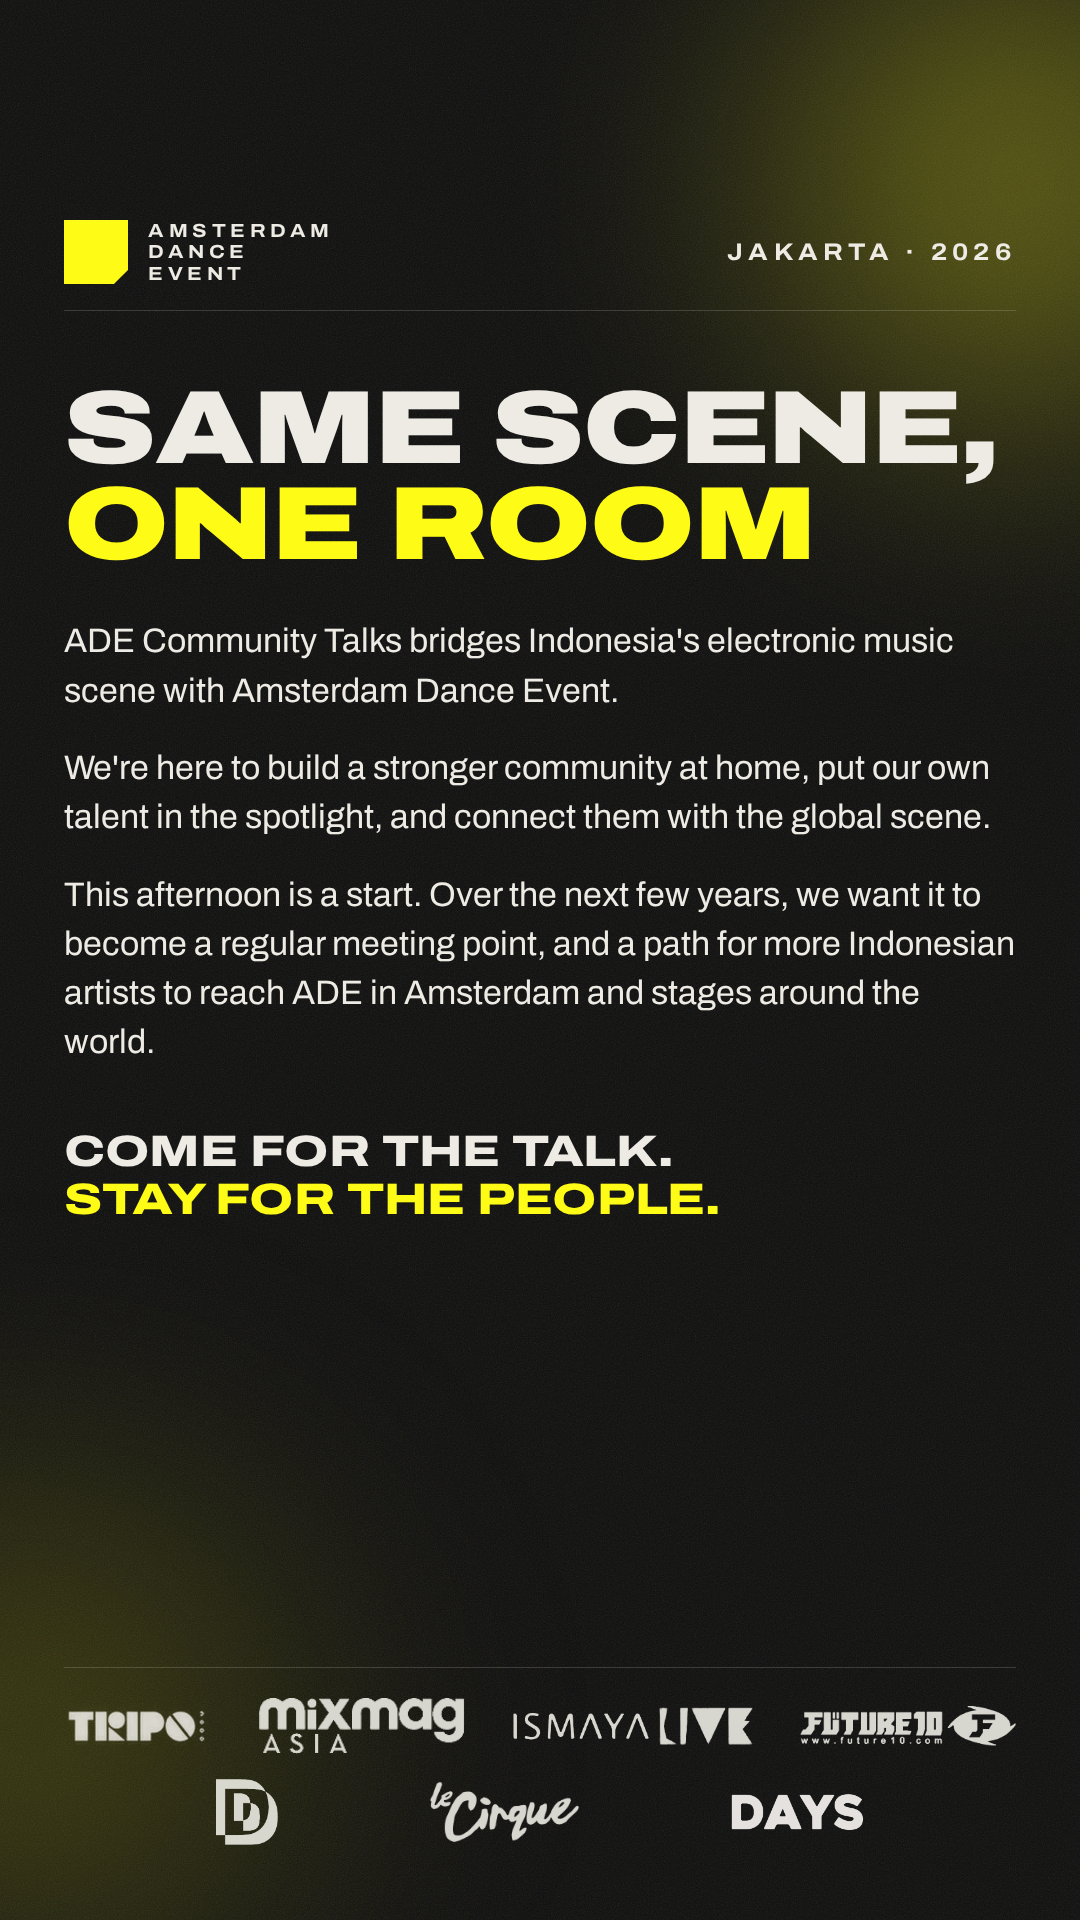
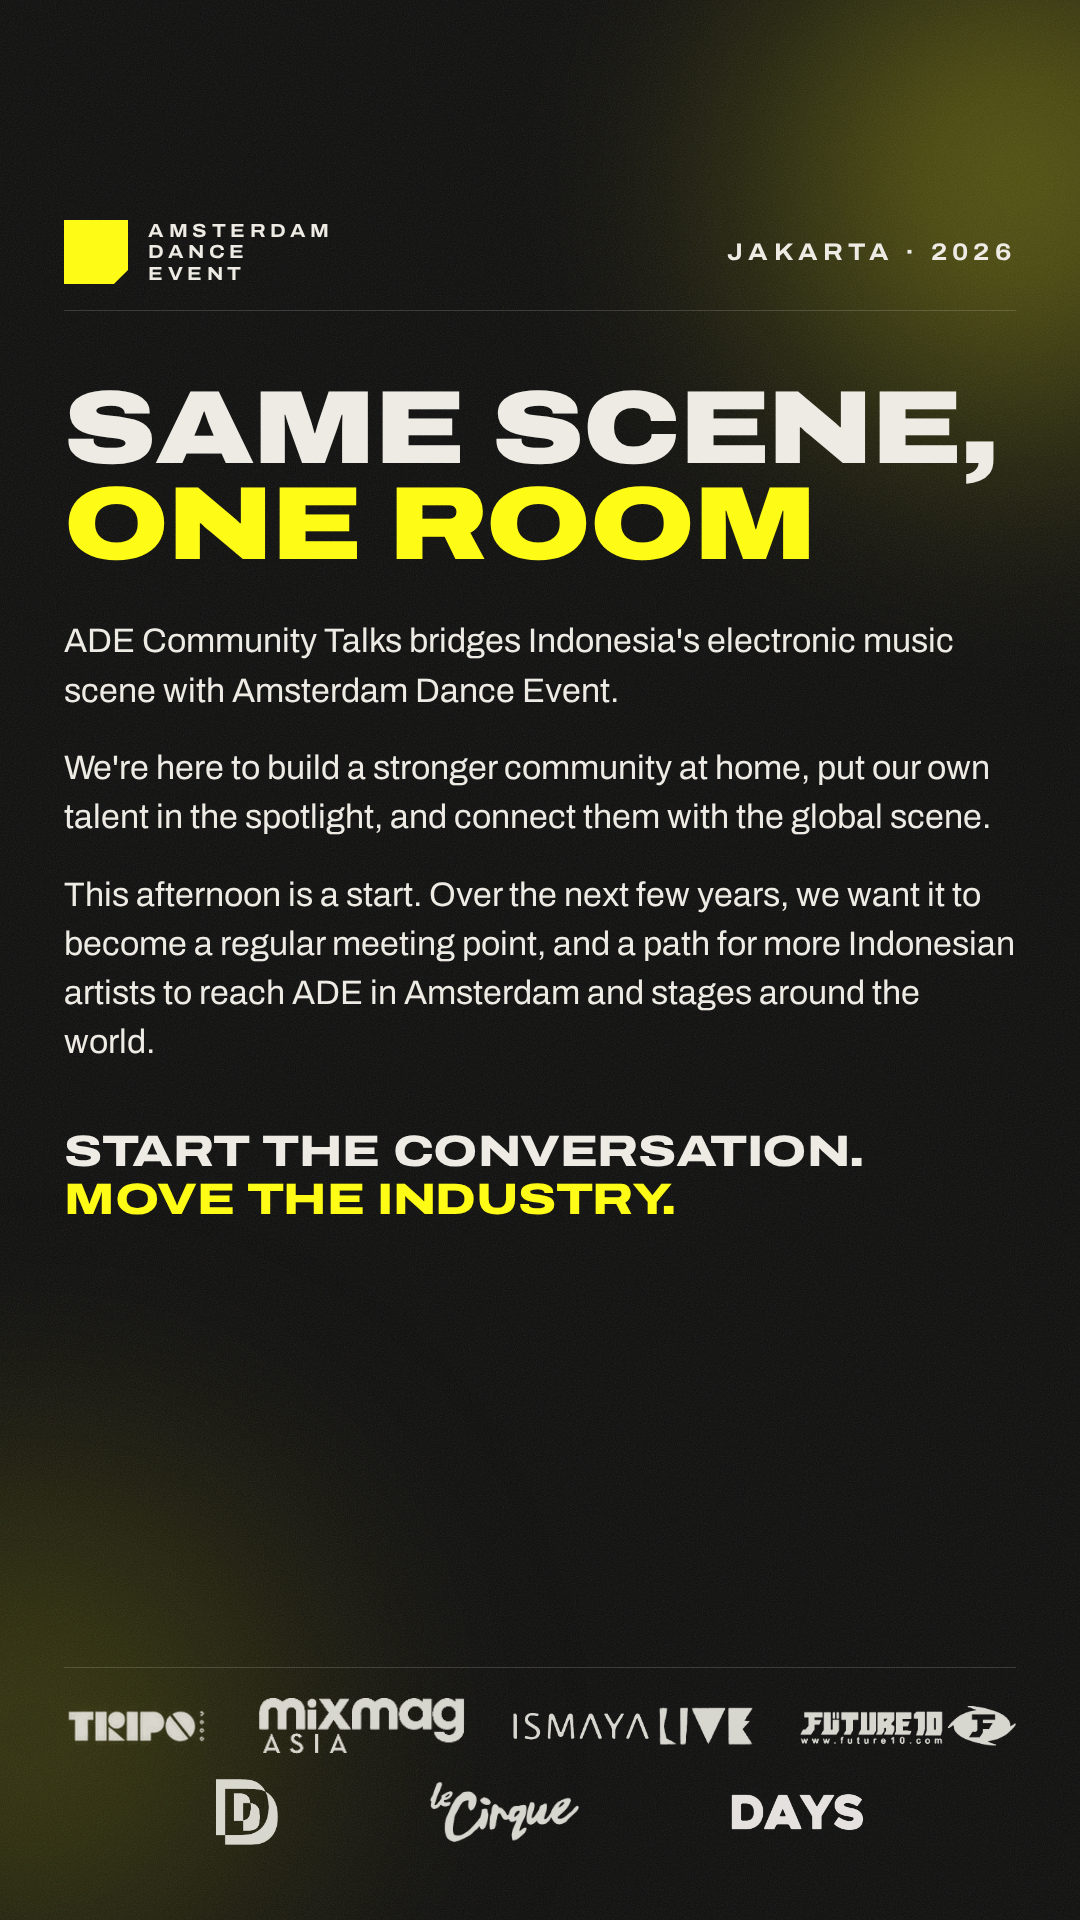
ADE scene page: closing line 'Start the conversation. Move the industry.'
Claude-Session: https://claude.ai/code/session_01Sc5gF2HRFqjLpMQDrx7aqZ

Changed region(s): [[0.0611, 0.5938, 0.7944, 0.6562]]

diff --git a/events/ade-community-talks-2026/03-scene.html b/events/ade-community-talks-2026/03-scene.html
@@ -14,7 +14,7 @@
   <div class="body" style="margin-top:28px">We're here to build a stronger community at home, put our own talent in the spotlight, and connect them with the global scene.</div>
   <div class="body" style="margin-top:28px">This afternoon is a start. Over the next few years, we want it to become a regular meeting point, and a path for more Indonesian artists to reach ADE in Amsterdam and stages around the world.</div>
 
-  <div class="display" style="font-size:44px;font-weight:800;margin-top:60px">Come for the talk.<br><em>Stay for the people.</em></div>
+  <div class="display" style="font-size:44px;font-weight:800;margin-top:60px">Start the conversation.<br><em>Move the industry.</em></div>
 
   <div class="logos">
     <div class="lrow">
